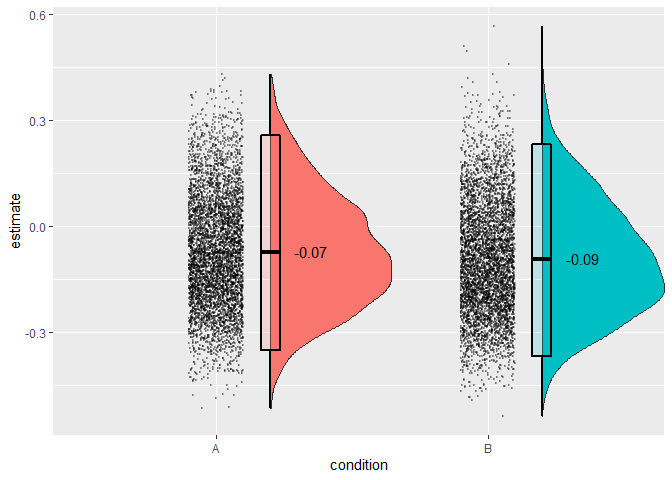
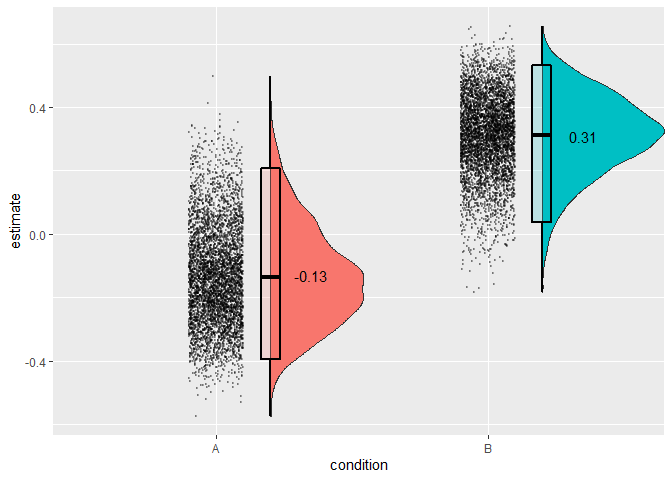
fixing speedtest data

diff --git a/README.md b/README.md
@@ -34,9 +34,10 @@ questions of individual differences researchers need to have some
 psychometric information for the outcome measures. Recently, it was
 proposed that psychological science should set a standard expectation
 for the reporting of reliability information for cognitive and
-behavioural measures (2019). **splithalf** was developed to support this
-proposition by providing a tool to easily extract internal consistency
-reliability estimates from behavioural measures.
+behavioural measures (Parsons, Kruijt, and Fox 2019). **splithalf** was
+developed to support this proposition by providing a tool to easily
+extract internal consistency reliability estimates from behavioural
+measures.
 
 ## Installation
 
@@ -260,18 +261,18 @@ sim_data %>%
   mutate(bias = congruent - incongruent)
 # A tibble: 120 x 5
 # Groups:   participant_number, block_name [120]
-   participant_number block_name congruent incongruent     bias
-                <int> <fct>          <dbl>       <dbl>    <dbl>
- 1                  1 A               511.        512.   -0.692
- 2                  1 B               470.        493.  -23.7  
- 3                  2 A               535.        471.   63.1  
- 4                  2 B               475.        588. -113.   
- 5                  3 A               538.        497.   40.8  
- 6                  3 B               482.        548.  -66.6  
- 7                  4 A               471.        491.  -20.4  
- 8                  4 B               464.        429.   35.1  
- 9                  5 A               492.        488.    4.48 
-10                  5 B               537.        570.  -33.6  
+   participant_number block_name congruent incongruent  bias
+                <int> <fct>          <dbl>       <dbl> <dbl>
+ 1                  1 A               481.        519. -38.2
+ 2                  1 B               494.        517. -23.0
+ 3                  2 A               555.        541.  13.6
+ 4                  2 B               483.        533. -49.6
+ 5                  3 A               502.        479.  23.6
+ 6                  3 B               521.        465.  56.3
+ 7                  4 A               475.        513. -38.3
+ 8                  4 B               540.        455.  84.7
+ 9                  5 A               496.        551. -54.7
+10                  5 B               529.        484.  45.0
 # ... with 110 more rows
 ```
 
@@ -297,8 +298,8 @@ difference <- splithalf(data = sim_data,
 ```
 
       condition  n splithalf 95_low 95_high spearmanbrown SB_low SB_high
-    1         A 60     -0.04  -0.21    0.15         -0.07  -0.35    0.26
-    2         B 60     -0.05  -0.23    0.13         -0.09  -0.37    0.23
+    1         A 60     -0.08  -0.25    0.12         -0.13  -0.40    0.21
+    2         B 60      0.19   0.02    0.36          0.31   0.04    0.53
 
 Specifying `plot = TRUE` will also allow you to plot the distributions
 of reliability estimates. you can extract the plot from a saved object
@@ -336,7 +337,7 @@ formula is not useful in this case.
 > We estimated the internal consitency of bias A and B using a
 > permutation-based splithalf approach (Parsons 2019) with 5000 random
 > splits. The (Spearman-Brown corrected) splithalf internal consistency
-> of bias A was were *r*<sub>SB</sub> = -0.07, 95%CI \[-0.35,0.26\].
+> of bias A was were *r*<sub>SB</sub> = -0.13, 95%CI \[-0.4,0.21\].
 >
 > — Parsons, 2020
 
@@ -365,8 +366,8 @@ var.trialnum will soon be depreciated
 ```
 
       condition  n splithalf 95_low 95_high spearmanbrown SB_low SB_high
-    1         A 60     -0.15  -0.31    0.04         -0.25  -0.48    0.07
-    2         B 60      0.05  -0.12    0.23          0.08  -0.22    0.38
+    1         A 60     -0.05  -0.22    0.13         -0.10  -0.36    0.24
+    2         B 60      0.00  -0.17    0.18         -0.01  -0.30    0.31
 
 ### Difference-of-difference scores
 
@@ -414,7 +415,7 @@ Warning in splithalf(data = sim_data, outcome = "RT", score =
 ```
 
          condition  n splithalf 95_low 95_high spearmanbrown SB_low SB_high
-    1 change score 60     -0.02   -0.2    0.17         -0.04  -0.33    0.29
+    1 change score 60      0.17      0    0.35          0.28      0    0.52
 
 ## Multiverse analysis extension
 
@@ -492,7 +493,7 @@ The speed of *splithalf* rests entirely on the number of conditions,
 participants, and permutations. The biggest factor will be your machine
 speed. For relative times, I ran a simulation with a range of sample
 sizes, numbers of conditions, numbers of trials, and permutations. The
-data is contained within the package as `data/speedtest.csv`
+data is contained within the package as `data/speedtest.rda`
 
 ![](man/figures/README-speedtest-1.png)<!-- -->
 
